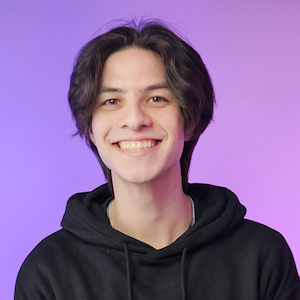
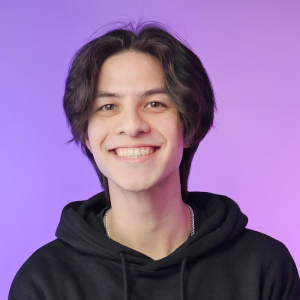
fix: resolve various w3 validator issues

diff --git a/src/features/Home.tsx b/src/features/Home.tsx
@@ -12,9 +12,10 @@ export function Home({ recentThoughts }: PageProps) {
     <>
       <About />
       <section>
-        <h1>Recent Thoughts</h1>
+        <h2>Recent Thoughts</h2>
         <ol className="articlelist">
-          {recentThoughts.map(({ data: { date, title, video } }) => {
+          {recentThoughts.map((thought) => {
+            const { date, title, video } = thought.data;
             const { url } = getThoughtSlug({ date, title });
             return (
               <ArticleListItem

diff --git a/src/assets/styles/main.scss b/src/assets/styles/main.scss
@@ -153,11 +153,13 @@ a {
   }
 }
 
+/* globally hide all page anchors */
+/* unless explicitly allowed */
+a.anchor {
+  margin-left: 0.5rem;
+  display: none;
+}
 @mixin heading-anchors {
-  a.anchor {
-    margin-left: 0.5rem;
-    display: none;
-  }
   h1,
   h2,
   h3,
@@ -170,7 +172,7 @@ a {
   }
 }
 
-*:focus {
+*:not(iframe):focus {
   outline-style: dotted;
   outline-width: 2px;
 }

diff --git a/src/components/About.tsx b/src/components/About.tsx
@@ -30,8 +30,7 @@ export function About() {
       <div className="stacked">
         <img
           className="me"
-          src="/static/me700x700.webp"
-          srcSet="/static/me300x300.jpg 300w, /static/me700x700.webp 700w"
+          src="/static/me700x700.jpg"
           alt="a portrait of me"
           width={300}
           height={300}

diff --git a/src/features/recs/RatingGuide.tsx b/src/features/recs/RatingGuide.tsx
@@ -6,7 +6,7 @@ export function RatingGuide() {
         I rate the content I review on a scale of 0 to 10. Here is a general
         idea of what you can expect:
       </p>
-      <table className="rating-guide">
+      <table>
         <thead>
           <th>Rating</th>
           <th>Description</th>

diff --git a/src/content/thoughts/23/11/typescript-foundations.md b/src/content/thoughts/23/11/typescript-foundations.md
@@ -723,14 +723,14 @@ The only way to prevent this error from occurring is careful code review.
 
 If you're having a hard time trying to remember all this information, TypeScript makes really great resources. For one, their handbook is excellent.
 
-https://www.typescriptlang.org/docs/handbook/intro.html
+[https://www.typescriptlang.org/docs/handbook/intro.html](https://www.typescriptlang.org/docs/handbook/intro.html)
 
 They also make their own cheatsheets which are really cool to check out.
 
-https://www.typescriptlang.org/cheatsheets
+[https://www.typescriptlang.org/cheatsheets](https://www.typescriptlang.org/cheatsheets)
 
 And, of course, I highly recommend the book *Effective TypeScript* by Dan Vanderkam. It's a really great resource (as are his blog posts).
 
-https://effectivetypescript.com/
+[https://effectivetypescript.com/](https://effectivetypescript.com/)
 
 **That's it for TypeScript foundations!** This wasn't a fully comprehensive overview of every single feature of TypeScript by any means (I didn't cover classes, enums, or conditional types), but I touched on all the concepts I consider to be very important to understanding TypeScript.
